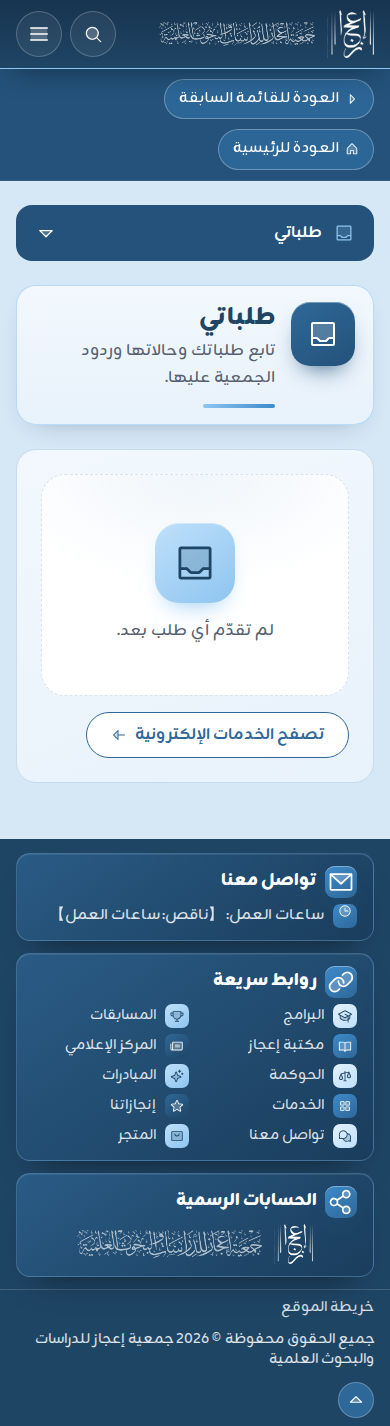
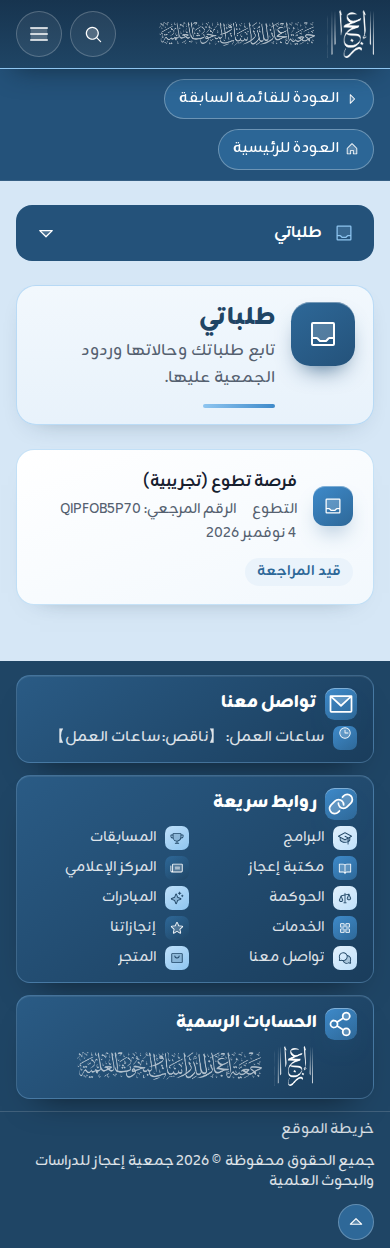
fix(account): start buttons inside empty states, hide view-all while empty
Reviewer notes on #167: the empty upcoming and latest-requests panels
carry a start button inside the empty box (programmes, e-services) and
drop "view all" until they have something; the browse buttons on my
requests, programmes and competitions move inside the empty box under
the message. The card count sits in a pill, and every "view all" on
the account home uses one label. Before/after shots retaken.

diff --git a/resources/css/account-polish.css b/resources/css/account-polish.css
@@ -169,6 +169,22 @@
     line-height: 1.1;
 }
 
+/* عدد البطاقة (المفتوح من الطلبات والقادم من البرامج) في كبسولة بجانب الأيقونة، لا رقماً طافياً (ملاحظة المقيّم على #167) */
+[data-account] .acct-count {
+    display: inline-flex;
+    align-items: center;
+    justify-content: center;
+    min-width: 2.25rem;
+    height: 2.25rem;
+    padding-inline: 0.75rem;
+    border-radius: 999px;
+    border: 1px solid #bfe0fa;
+    background: #e3f1fc;
+    color: #1f4565;
+    font-size: 1.125rem;
+    font-weight: 900;
+}
+
 /* ── الصفوف: الطلبات والبرامج والمشاركات والنماذج ── */
 [data-account] .acct-row {
     display: flex;

diff --git a/tests/Feature/Accounts/AccountPolishTest.php b/tests/Feature/Accounts/AccountPolishTest.php
@@ -54,12 +54,56 @@ it('lists my requests and programmes as rows with an icon tile and the status pi
         ->assertSeeInOrder(['acct-row', 'data-icon-tile', 'برنامج الصف'], false);
 });
 
-it('shows the dashboard cards with a bold count and the gradient arrow', function () {
+it('shows the dashboard cards with the count in a pill and the gradient arrow', function () {
     ProgramRegistration::factory()->for($this->user)->for(Program::factory()->create(['starts_at' => now()->addDays(4)]))->create();
 
     $this->actingAs($this->user)->get(route('account.dashboard'))
         ->assertOk()
-        ->assertSeeInOrder(['data-account-cards', 'acct-number', 'acct-arrow'], false);
+        ->assertSeeInOrder(['data-account-cards', 'acct-count', 'acct-arrow'], false);
+});
+
+/** زر «تصفّح…» داخل صندوق الحالة الفارغة تحت رسالتها مباشرة، لا بعد إغلاقه (ملاحظة المقيّم على #167) */
+function expectBrowseInsideEmptyState(string $html, string $message, string $href, string $label): void
+{
+    expect($html)->toMatch('#'.preg_quote(e($message), '#').'</p>\s*<a href="'.preg_quote($href, '#').'"[^>]*>\s*'.preg_quote(e($label), '#').'#u');
+}
+
+it('puts a start button inside each empty panel of the dashboard and hides «view all» while empty', function () {
+    $html = $this->actingAs($this->user)->get(route('account.dashboard'))->assertOk()->getContent();
+
+    expectBrowseInsideEmptyState($html, __('account.summary.upcoming_empty'), route('programs.index'), __('programs.mine.browse'));
+    expectBrowseInsideEmptyState($html, __('account.summary.requests_empty'), route('services.index'), __('services.requests.browse'));
+
+    expect($html)
+        ->not->toContain('<span class="sr-only">: '.__('account.summary.upcoming').'</span>')
+        ->not->toContain('<span class="sr-only">: '.__('account.summary.latest_requests').'</span>');
+});
+
+it('shows «view all» on the dashboard panels once they have something', function () {
+    ServiceRequest::factory()->for($this->user)->for(Opening::factory()->create())->create();
+    ProgramRegistration::factory()->for($this->user)->for(Program::factory()->create(['starts_at' => now()->addDays(2)]))->create();
+
+    $this->actingAs($this->user)->get(route('account.dashboard'))
+        ->assertOk()
+        ->assertSee(__('account.summary.view_all').'<span class="sr-only">: '.__('account.summary.upcoming').'</span>', false)
+        ->assertSee(__('account.summary.view_all').'<span class="sr-only">: '.__('account.summary.latest_requests').'</span>', false)
+        ->assertDontSee(__('account.summary.upcoming_empty'));
+});
+
+it('puts the browse button inside the empty box of my requests, programmes and competitions', function (string $page, string $message, string $target, string $label) {
+    $html = $this->actingAs($this->user)->get(route($page))->assertOk()->getContent();
+
+    expectBrowseInsideEmptyState($html, __($message), route($target), __($label));
+})->with([
+    'requests' => ['account.requests.index', 'services.requests.empty', 'services.index', 'services.requests.browse'],
+    'programmes' => ['account.programs.index', 'programs.mine.empty', 'programs.index', 'programs.mine.browse'],
+    'competitions' => ['account.competitions', 'competitions.account.empty', 'competitions.index', 'competitions.account.browse'],
+]);
+
+it('labels every «view all» on the account home the same', function () {
+    $this->actingAs($this->user)->get(route('account.dashboard'))
+        ->assertOk()
+        ->assertSee(__('account.summary.view_all').'<span class="sr-only">: '.__('reading.title').'</span>', false);
 });
 
 it('heads every section of the form pages with an icon tile, keeping the anchors', function (string $route, array $titles) {

diff --git a/resources/views/account/partials/summary.blade.php b/resources/views/account/partials/summary.blade.php
@@ -1,6 +1,7 @@
 {{--
     أسفل رئيسية اللوحة (Final-Dashboard): «مواعيدي القادمة» مربعات ملونة متجاورة (اليوم والشهر في مربع، ثم البرنامج، ثم الوقت
-    وطريقة الحضور)، ثم آخر الطلبات. لكل منهما رابط «الكل».
+    وطريقة الحضور)، ثم آخر الطلبات. لكل منهما رابط «عرض الكل» متى كان فيه شيء، والفارغ بزر داخل حالته إلى حيث يبدأ (ملاحظة
+    المقيّم على #167): المواعيد إلى البرامج، والطلبات إلى الخدمات الإلكترونية.
 --}}
 @php
     use App\Support\Dates;
@@ -12,11 +13,15 @@
             <x-icon-tile icon="calendar-days" size="sm" shade="dark" />
             {{ __('account.summary.upcoming') }}
         </h2>
-        <a href="{{ route('account.programs.index') }}" wire:navigate class="more-link shrink-0">{{ __('account.summary.view_all') }}<span class="sr-only">: {{ __('account.summary.upcoming') }}</span></a>
+        @if ($summary['upcoming']->isNotEmpty())
+            <a href="{{ route('account.programs.index') }}" wire:navigate class="more-link shrink-0">{{ __('account.summary.view_all') }}<span class="sr-only">: {{ __('account.summary.upcoming') }}</span></a>
+        @endif
     </div>
 
     @if ($summary['upcoming']->isEmpty())
-        <x-empty-state icon="calendar-days" :message="__('account.summary.upcoming_empty')" class="mt-4" />
+        <x-empty-state icon="calendar-days" :message="__('account.summary.upcoming_empty')" class="mt-4">
+            <x-button variant="outline" :href="route('programs.index')" arrow>{{ __('programs.mine.browse') }}</x-button>
+        </x-empty-state>
     @else
         <ul class="mt-4 grid gap-3 sm:grid-cols-2 lg:grid-cols-3">
             @foreach ($summary['upcoming'] as $registration)
@@ -45,11 +50,17 @@
             <x-icon-tile icon="clipboard-document-list" size="sm" shade="medium" />
             {{ __('account.summary.latest_requests') }}
         </h2>
-        <a href="{{ route('account.requests.index') }}" wire:navigate class="more-link shrink-0">{{ __('account.summary.view_all') }}<span class="sr-only">: {{ __('account.summary.latest_requests') }}</span></a>
+        @if ($summary['latest_requests']->isNotEmpty())
+            <a href="{{ route('account.requests.index') }}" wire:navigate class="more-link shrink-0">{{ __('account.summary.view_all') }}<span class="sr-only">: {{ __('account.summary.latest_requests') }}</span></a>
+        @endif
     </div>
 
     @if ($summary['latest_requests']->isEmpty())
-        <x-empty-state icon="clipboard-document-list" :message="__('account.summary.requests_empty')" class="mt-4" />
+        <x-empty-state icon="clipboard-document-list" :message="__('account.summary.requests_empty')" class="mt-4">
+            @if (Route::has('services.index'))
+                <x-button variant="outline" :href="route('services.index')" arrow>{{ __('services.requests.browse') }}</x-button>
+            @endif
+        </x-empty-state>
     @else
         <ul class="mt-4 divide-y divide-line/70">
             @foreach ($summary['latest_requests'] as $request)

diff --git a/resources/views/account/partials/my-reading.blade.php b/resources/views/account/partials/my-reading.blade.php
@@ -1,6 +1,6 @@
 {{--
     «قراءاتي ومسموعاتي» في رئيسية اللوحة (Final-Dashboard — البند D1): مجاميع صاحب الحساب في ثلاث بطاقات ملونة، ثم أحدث ما بدأه
-    بتقدّمه وزر المتابعة، و«الكل» إلى صفحة «قراءاتي». وبلا تقدّم: دعوة إلى المكتبة. بياناته وحده (BuildMyReading).
+    بتقدّمه وزر المتابعة، و«عرض الكل» إلى صفحة «قراءاتي». وبلا تقدّم: دعوة إلى المكتبة. بياناته وحده (BuildMyReading).
 --}}
 <section class="concept-panel rounded-[1.25rem] p-5 sm:p-6" aria-labelledby="account-my-reading" data-account-my-reading>
     <div class="flex items-center justify-between gap-3">
@@ -8,7 +8,7 @@
             <x-icon-tile icon="book-open" size="sm" shade="medium" />
             {{ __('reading.title') }}
         </h2>
-        <a href="{{ route('account.my-reading') }}" wire:navigate class="more-link shrink-0">{{ __('reading.view_all') }}<span class="sr-only">: {{ __('reading.title') }}</span></a>
+        <a href="{{ route('account.my-reading') }}" wire:navigate class="more-link shrink-0">{{ __('account.summary.view_all') }}<span class="sr-only">: {{ __('reading.title') }}</span></a>
     </div>
     <p class="mt-1 text-sm text-muted" data-reading-tracking-note="{{ $trackingDisabled ? 'off' : 'on' }}">{{ __($trackingDisabled ? 'reading.tracking.off_note' : 'reading.description') }}</p>
 

diff --git a/tests/Feature/A11y/V015AccessibilityTest.php b/tests/Feature/A11y/V015AccessibilityTest.php
@@ -5,7 +5,11 @@ use App\Models\Announcement;
 use App\Models\Competition;
 use App\Models\LibraryItem;
 use App\Models\NewsArticle;
+use App\Models\Opening;
 use App\Models\Partner;
+use App\Models\Program;
+use App\Models\ProgramRegistration;
+use App\Models\ServiceRequest;
 use App\Models\User;
 use Illuminate\Support\Facades\Blade;
 
@@ -60,6 +64,9 @@ it('names the section of every «more» and «view all» link on the home page',
 
 it('names the section of the «view all» links on the account home', function () {
     $user = User::factory()->create();
+    // «عرض الكل» يظهر متى كان في القسم شيء (ملاحظة المقيّم على #167)، فللمستخدم موعد قادم وطلب
+    ServiceRequest::factory()->for($user)->for(Opening::factory()->create())->create();
+    ProgramRegistration::factory()->for($user)->for(Program::factory()->create(['starts_at' => now()->addDays(2)]))->create();
 
     $html = $this->actingAs($user)->get('/account')->assertOk()->getContent();
 

diff --git a/resources/views/account/requests/index.blade.php b/resources/views/account/requests/index.blade.php
@@ -6,10 +6,11 @@
 <x-layouts.account :title="__('services.requests.title')">
     @if ($requests->isEmpty())
         <x-card>
-            <x-empty-state icon="inbox-stack" :message="__('services.requests.empty')" />
-            @if (Route::has('services.index'))
-                <x-button class="mt-4" variant="outline" :href="route('services.index')" arrow>{{ __('services.requests.browse') }}</x-button>
-            @endif
+            <x-empty-state icon="inbox-stack" :message="__('services.requests.empty')">
+                @if (Route::has('services.index'))
+                    <x-button variant="outline" :href="route('services.index')" arrow>{{ __('services.requests.browse') }}</x-button>
+                @endif
+            </x-empty-state>
         </x-card>
     @else
         <ul class="space-y-3">

diff --git a/resources/views/account/competitions.blade.php b/resources/views/account/competitions.blade.php
@@ -6,8 +6,9 @@
 <x-layouts.account :title="__('competitions.account.title')">
     @if ($submissions->isEmpty())
         <div class="p-6 concept-panel">
-            <x-empty-state icon="trophy" :message="__('competitions.account.empty')" />
-            <x-button :href="route('competitions.index')" variant="outline" class="mt-4" arrow>{{ __('competitions.account.browse') }}</x-button>
+            <x-empty-state icon="trophy" :message="__('competitions.account.empty')">
+                <x-button :href="route('competitions.index')" variant="outline" arrow>{{ __('competitions.account.browse') }}</x-button>
+            </x-empty-state>
         </div>
     @else
         <ul class="space-y-4">

diff --git a/resources/views/account/programs/index.blade.php b/resources/views/account/programs/index.blade.php
@@ -6,8 +6,9 @@
 <x-layouts.account :title="__('programs.mine.title')">
     @if ($registrations->isEmpty() && $completed->isEmpty())
         <x-card>
-            <x-empty-state icon="academic-cap" :message="__('programs.mine.empty')" />
-            <x-button class="mt-4" variant="outline" :href="route('programs.index')" arrow>{{ __('programs.mine.browse') }}</x-button>
+            <x-empty-state icon="academic-cap" :message="__('programs.mine.empty')">
+                <x-button variant="outline" :href="route('programs.index')" arrow>{{ __('programs.mine.browse') }}</x-button>
+            </x-empty-state>
         </x-card>
     @else
         <ul class="space-y-3">

diff --git a/resources/views/account/dashboard.blade.php b/resources/views/account/dashboard.blade.php
@@ -42,7 +42,7 @@
                     <span class="flex items-center justify-between gap-3">
                         <x-icon-tile :icon="$card['icon']" size="md" />
                         @if (($counts[$card['route']] ?? 0) > 0)
-                            <span class="acct-number font-black tabular-nums">{{ number_format($counts[$card['route']]) }}</span>
+                            <span class="acct-count tabular-nums">{{ number_format($counts[$card['route']]) }}</span>
                         @endif
                     </span>
                     <span class="text-[1.3125rem] font-black">{{ $card['title'] }}</span>

diff --git a/lang/ar/reading.php b/lang/ar/reading.php
@@ -6,7 +6,6 @@ return [
     'nav' => 'قراءاتي',
     'title' => 'قراءاتي ومسموعاتي',
     'description' => 'يُحفظ موضعك تلقائياً، فتكمل من حيث توقفت.',
-    'view_all' => 'الكل',
     'empty' => 'لم تبدأ قراءة كتاب أو الاستماع إلى مادة أو مشاهدة مقطع بعد. ما تقرؤه في مكتبة إعجاز وأنت مسجّل الدخول يظهر هنا.',
     'browse' => 'تصفّح مكتبة إعجاز',
     'section_empty' => 'لا شيء هنا بعد.',

diff --git a/tests/Unit/AccountPolishContrastTest.php b/tests/Unit/AccountPolishContrastTest.php
@@ -58,6 +58,12 @@ it('keeps white readable on the arrow and date gradient', function () {
     }
 });
 
+it('keeps the card count readable in its pill', function () {
+    $pill = '[data-account] .acct-count';
+
+    expect(contrastRatio(accountPolishValue($pill, 'color'), accountPolishValue($pill, 'background')))->toBeGreaterThanOrEqual(4.5);
+});
+
 it('uses blue only: every colour in the file is from the blue scale or white', function () {
     preg_match_all('/#([0-9a-f]{6})\b/i', accountPolishCss(), $hexes);
 

diff --git a/docs/roadmap.md b/docs/roadmap.md
@@ -331,4 +331,4 @@
 
 ## جماليات لوحات الحسابات — 4 نوفمبر 2026 (طلب صفوان، `مدخلات-المدير/طلب-لوحة-الإدارة-2026-11-04.md`)
 
-- 🟨 **الدفعة ٤: حساب المستفيد** في `feature/account-polish` (طلب #167، بلا دمج قبل لقطات صفوان وموافقته). الجزء الأول (جلسة الاختبار): رأس الصفحات الداخلية بأيقونة القسم ووصفه (`resources/css/account.css`). والجزء الثاني: الترحيب «فاتح بصورة واحدة» باسم المستخدم، والبطاقات الفاتحة بمربعات أيقونات متدرجة وأرقام بارزة، والحالات الفارغة المرسومة، وصفوف «طلباتي» و«برامجي» و«مشاركاتي» و«نماذجي» بأيقوناتها، وعناوين أقسام صفحات النماذج («بياناتي» و«الأمان» و«البيانات الشخصية») بمربع أيقونة (`x-account-section-title`)، ودخول ناعم يتوقف لمن طلب تقليل الحركة (`resources/css/account-polish.css` بنطاق `[data-account]`، لا يمس Filament). اللقطات في `docs/design/screenshots/account-polish/`.
+- 🟨 **الدفعة ٤: حساب المستفيد** في `feature/account-polish` (طلب #167، بلا دمج قبل لقطات صفوان وموافقته). الجزء الأول (جلسة الاختبار): رأس الصفحات الداخلية بأيقونة القسم ووصفه (`resources/css/account.css`). والجزء الثاني: الترحيب «فاتح بصورة واحدة» باسم المستخدم، والبطاقات الفاتحة بمربعات أيقونات متدرجة وأرقام بارزة، والحالات الفارغة المرسومة، وصفوف «طلباتي» و«برامجي» و«مشاركاتي» و«نماذجي» بأيقوناتها، وعناوين أقسام صفحات النماذج («بياناتي» و«الأمان» و«البيانات الشخصية») بمربع أيقونة (`x-account-section-title`)، ودخول ناعم يتوقف لمن طلب تقليل الحركة (`resources/css/account-polish.css` بنطاق `[data-account]`، لا يمس Filament). اللقطات في `docs/design/screenshots/account-polish/`. وملاحظات المقيّم المهمة على #167 مطبقة: زر البدء داخل صندوق الحالة الفارغة في «مواعيدي القادمة» و«آخر طلباتي» و«طلباتي» و«برامجي» و«مشاركاتي»، و«عرض الكل» يُخفى مع الفراغ، والعدد في كبسولة، و«عرض الكل» نصاً واحداً (لقطات `notes-*`). والشريط الجانبي يبقى أزرق داكناً كالمرجع البصري.
